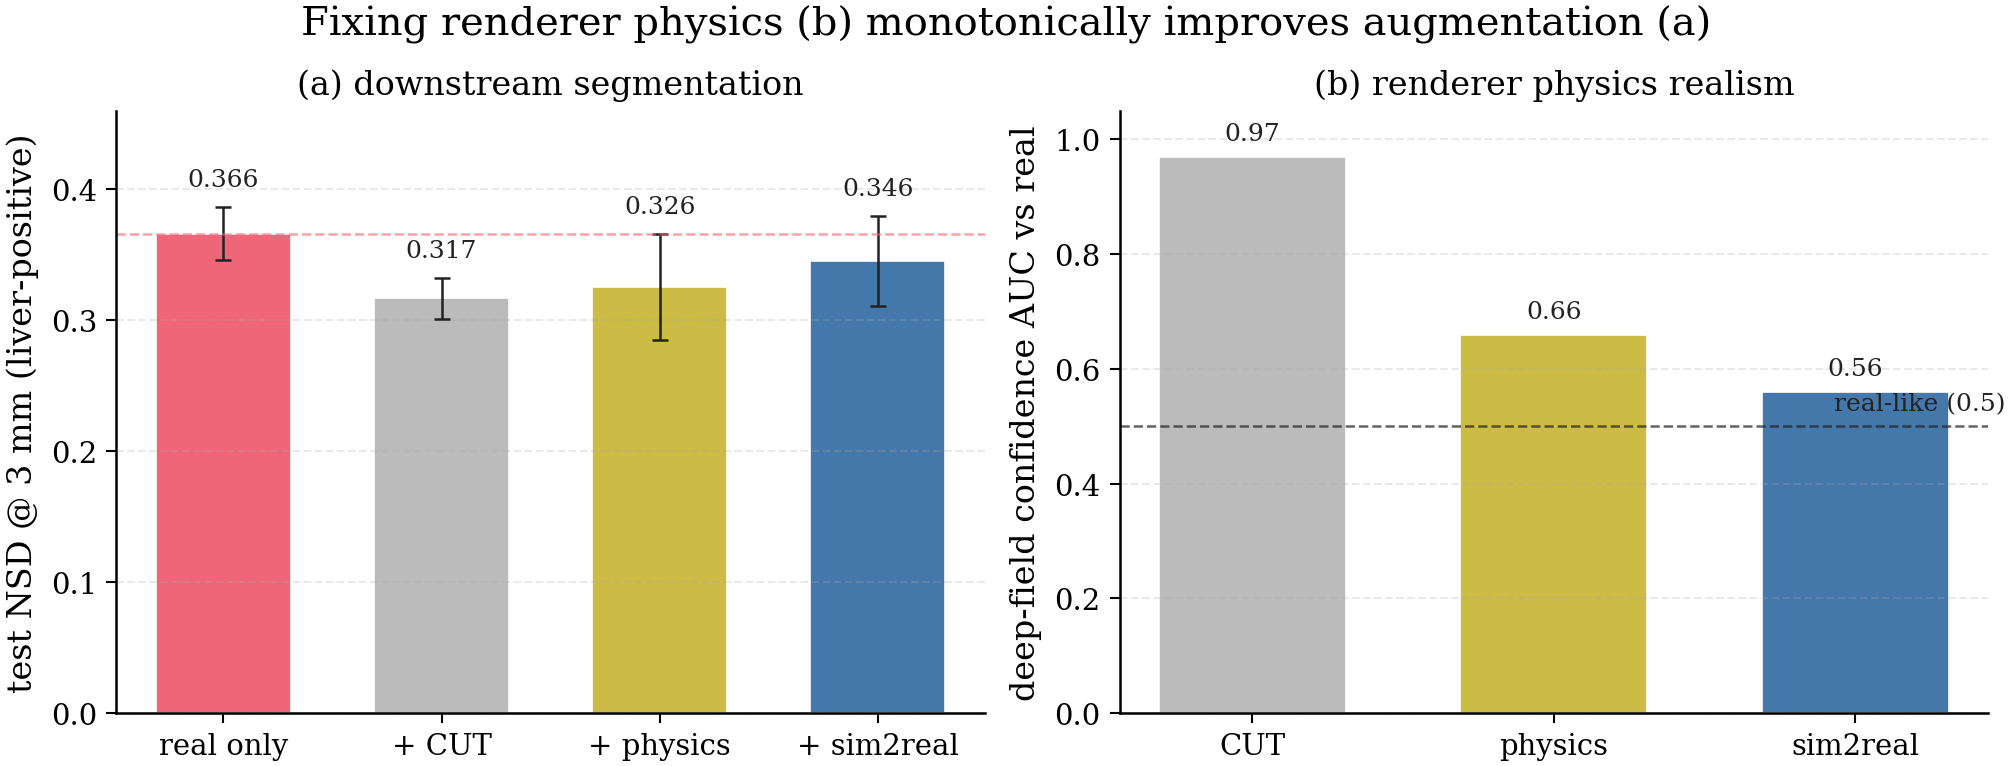
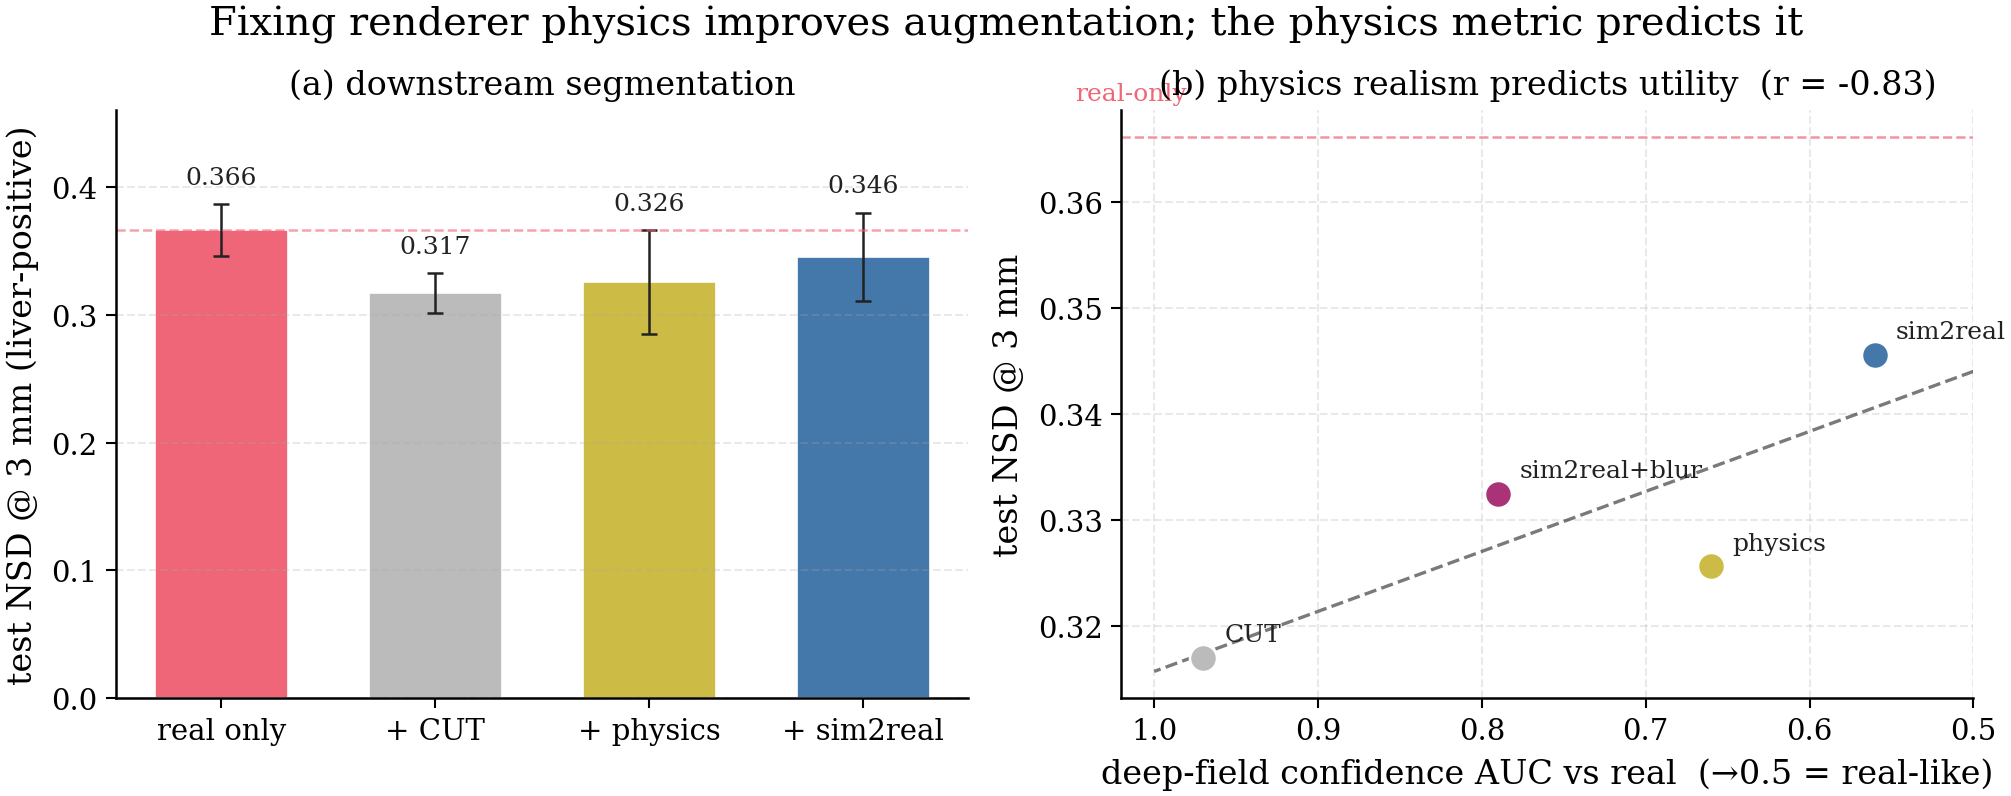
docs(fig): sim2real story — physics-realism metric predicts downstream (r=-0.83)
Update figures/17: (a) four-arm downstream bars (real 0.366 / +CUT 0.317 / +physics 0.326 /
+sim2real 0.346); (b) correlation across 4 renderer variants (CUT, physics, sim2real, and the
regressed sim2real+blur) between deep-field-confidence AUC and downstream NSD, r=-0.83. The
cheap physics metric predicts augmentation utility — including the negative beam-blur point,
which sits on the trend — where distributional realism metrics do not.

diff --git a/segmentation/plot_sim2real_story.py b/segmentation/plot_sim2real_story.py
@@ -1,9 +1,11 @@
 #!/usr/bin/env python
-"""Sim2real story: fixing renderer physics monotonically improves downstream augmentation.
+"""Sim2real story: renderer physics realism predicts downstream augmentation value.
 
 Panel (a): four-arm downstream NSD — real-only vs +CUT / +physics / +sim2real gen.
-Panel (b): renderer deep-field-confidence AUC vs real (0.5=indistinguishable) for the three
-renderers — the physics-realism gap that panel (a) tracks.
+Panel (b): correlation across renderer variants (incl. the beam-blur v2 that regressed) between
+the physics-realism metric (deep-field confidence AUC vs real, ->0.5 = real-like) and downstream
+NSD. A strong negative correlation = the (cheap, physics) metric predicts downstream utility,
+which distributional realism metrics do not.
 """
 from __future__ import annotations
 
@@ -20,14 +22,14 @@ from style.style import figure, save, C, TYPE  # noqa: E402
 RUNS = REPO_ROOT / "runs"
 OUT = REPO_ROOT / "figures" / "17_sim2real_story"
 
-ARMS = [("real only", "A", C["baseline_a"]),
-        ("+ CUT", "B", C["neutral"]),
-        ("+ physics", "baseline_c", None),
-        ("+ sim2real", "Bs2r", C["ours"])]
-PFX = {"real only": "A", "+ CUT": "B", "+ physics": "Bphys", "+ sim2real": "Bs2r"}
-COL = {"real only": C["baseline_a"], "+ CUT": C["neutral"], "+ physics": C["baseline_c"], "+ sim2real": C["ours"]}
-# renderer deep-conf AUC vs real (from confidence_realism / physics_sim_check)
-DEEPCONF_AUC = {"CUT": 0.97, "physics": 0.66, "sim2real": 0.56}
+# four-arm bars (best sim2real = v1)
+BARS = [("real only", "A", C["baseline_a"]), ("+ CUT", "B", C["neutral"]),
+        ("+ physics", "Bphys", C["baseline_c"]), ("+ sim2real", "Bs2r", C["ours"])]
+# renderer variants for the correlation: deep-conf AUC vs real (measured) + downstream run prefix
+RENDERERS = [("CUT", 0.97, "B", C["neutral"]),
+             ("physics", 0.66, "Bphys", C["baseline_c"]),
+             ("sim2real", 0.56, "Bs2r", C["ours"]),
+             ("sim2real+blur", 0.79, "Bs2rv2", C["baseline_e"])]
 
 
 def _nsd(pfx):
@@ -36,35 +38,41 @@ def _nsd(pfx):
 
 
 def main() -> None:
-    names = list(PFX)
-    means = [_nsd(PFX[n]).mean() for n in names]
-    stds = [_nsd(PFX[n]).std() for n in names]
     import matplotlib; matplotlib.use("Agg")
-    fig, (axA, axB) = figure(ncols=2, width="double", height=2.6)
+    fig, (axA, axB) = figure(ncols=2, width="double", height=2.7)
 
-    x = np.arange(len(names)); ekw = dict(capsize=2.0, capthick=0.6, elinewidth=0.6, ecolor=C["dark"])
-    axA.bar(x, means, 0.62, yerr=stds, error_kw=ekw, color=[COL[n] for n in names], edgecolor="white", linewidth=0.4)
+    # (a) four-arm bars
+    means = [_nsd(p).mean() for _, p, _ in BARS]; stds = [_nsd(p).std() for _, p, _ in BARS]
+    x = np.arange(len(BARS)); ekw = dict(capsize=2.0, capthick=0.6, elinewidth=0.6, ecolor=C["dark"])
+    axA.bar(x, means, 0.62, yerr=stds, error_kw=ekw, color=[c for *_, c in BARS], edgecolor="white", linewidth=0.4)
     axA.axhline(means[0], ls="--", lw=0.6, color=C["baseline_a"], alpha=0.6)
     for xi, (m, s) in enumerate(zip(means, stds)):
         axA.text(xi, m + s + 0.012, f"{m:.3f}", ha="center", va="bottom", fontsize=TYPE["tiny"], color=C["dark"])
-    axA.set_xticks(x); axA.set_xticklabels(names, fontsize=TYPE["small"])
+    axA.set_xticks(x); axA.set_xticklabels([n for n, *_ in BARS], fontsize=TYPE["small"])
     axA.set_ylim(0, 0.46); axA.set_ylabel("test NSD @ 3 mm (liver-positive)")
     axA.set_title("(a) downstream segmentation"); axA.grid(True, axis="y"); axA.grid(False, axis="x")
 
-    rr = list(DEEPCONF_AUC); yv = [DEEPCONF_AUC[k] for k in rr]
-    xr = np.arange(len(rr))
-    axB.bar(xr, yv, 0.62, color=[C["neutral"], C["baseline_c"], C["ours"]], edgecolor="white", linewidth=0.4)
-    axB.axhline(0.5, ls="--", lw=0.6, color=C["dark"], alpha=0.7)
-    axB.text(len(rr) - 0.5, 0.52, "real-like (0.5)", ha="right", va="bottom", fontsize=TYPE["tiny"], color=C["dark"])
-    for xi, v in enumerate(yv):
-        axB.text(xi, v + 0.02, f"{v:.2f}", ha="center", va="bottom", fontsize=TYPE["tiny"], color=C["dark"])
-    axB.set_xticks(xr); axB.set_xticklabels(rr, fontsize=TYPE["small"])
-    axB.set_ylim(0, 1.05); axB.set_ylabel("deep-field confidence AUC vs real")
-    axB.set_title("(b) renderer physics realism"); axB.grid(True, axis="y"); axB.grid(False, axis="x")
+    # (b) correlation: deep-conf AUC vs downstream NSD
+    auc = np.array([a for _, a, _, _ in RENDERERS]); nsd = np.array([_nsd(p).mean() for _, _, p, _ in RENDERERS])
+    r = float(np.corrcoef(auc, nsd)[0, 1])
+    axB.axhline(_nsd("A").mean(), ls="--", lw=0.6, color=C["baseline_a"], alpha=0.7)
+    axB.text(0.98, _nsd("A").mean() + 0.003, "real-only", ha="right", va="bottom",
+             fontsize=TYPE["tiny"], color=C["baseline_a"])
+    z = np.polyfit(auc, nsd, 1); xs = np.linspace(0.5, 1.0, 50)
+    axB.plot(xs, np.poly1d(z)(xs), ls="--", lw=0.8, color=C["dark"], alpha=0.6)
+    for name, a, p, col in RENDERERS:
+        axB.scatter([a], [_nsd(p).mean()], s=42, color=col, edgecolor="white", linewidth=0.6, zorder=5)
+        axB.annotate(name, (a, _nsd(p).mean()), textcoords="offset points", xytext=(5, 4),
+                     fontsize=TYPE["tiny"], color=C["dark"])
+    axB.set_xlabel("deep-field confidence AUC vs real  (→0.5 = real-like)")
+    axB.set_ylabel("test NSD @ 3 mm"); axB.set_xlim(1.02, 0.5)   # reversed: real-like on the right
+    axB.set_title(f"(b) physics realism predicts utility  (r = {r:.2f})")
+    axB.grid(True, axis="both")
 
-    fig.suptitle("Fixing renderer physics (b) monotonically improves augmentation (a)")
+    fig.suptitle("Fixing renderer physics improves augmentation; the physics metric predicts it")
     save(fig, str(OUT / "sim2real_story"))
-    print("four-arm NSD:", {n: round(m, 3) for n, m in zip(names, means)})
+    print("bars:", {n: round(m, 3) for (n, *_), m in zip(BARS, means)})
+    print(f"correlation deep-conf AUC vs downstream NSD: r = {r:.3f}")
 
 
 if __name__ == "__main__":
